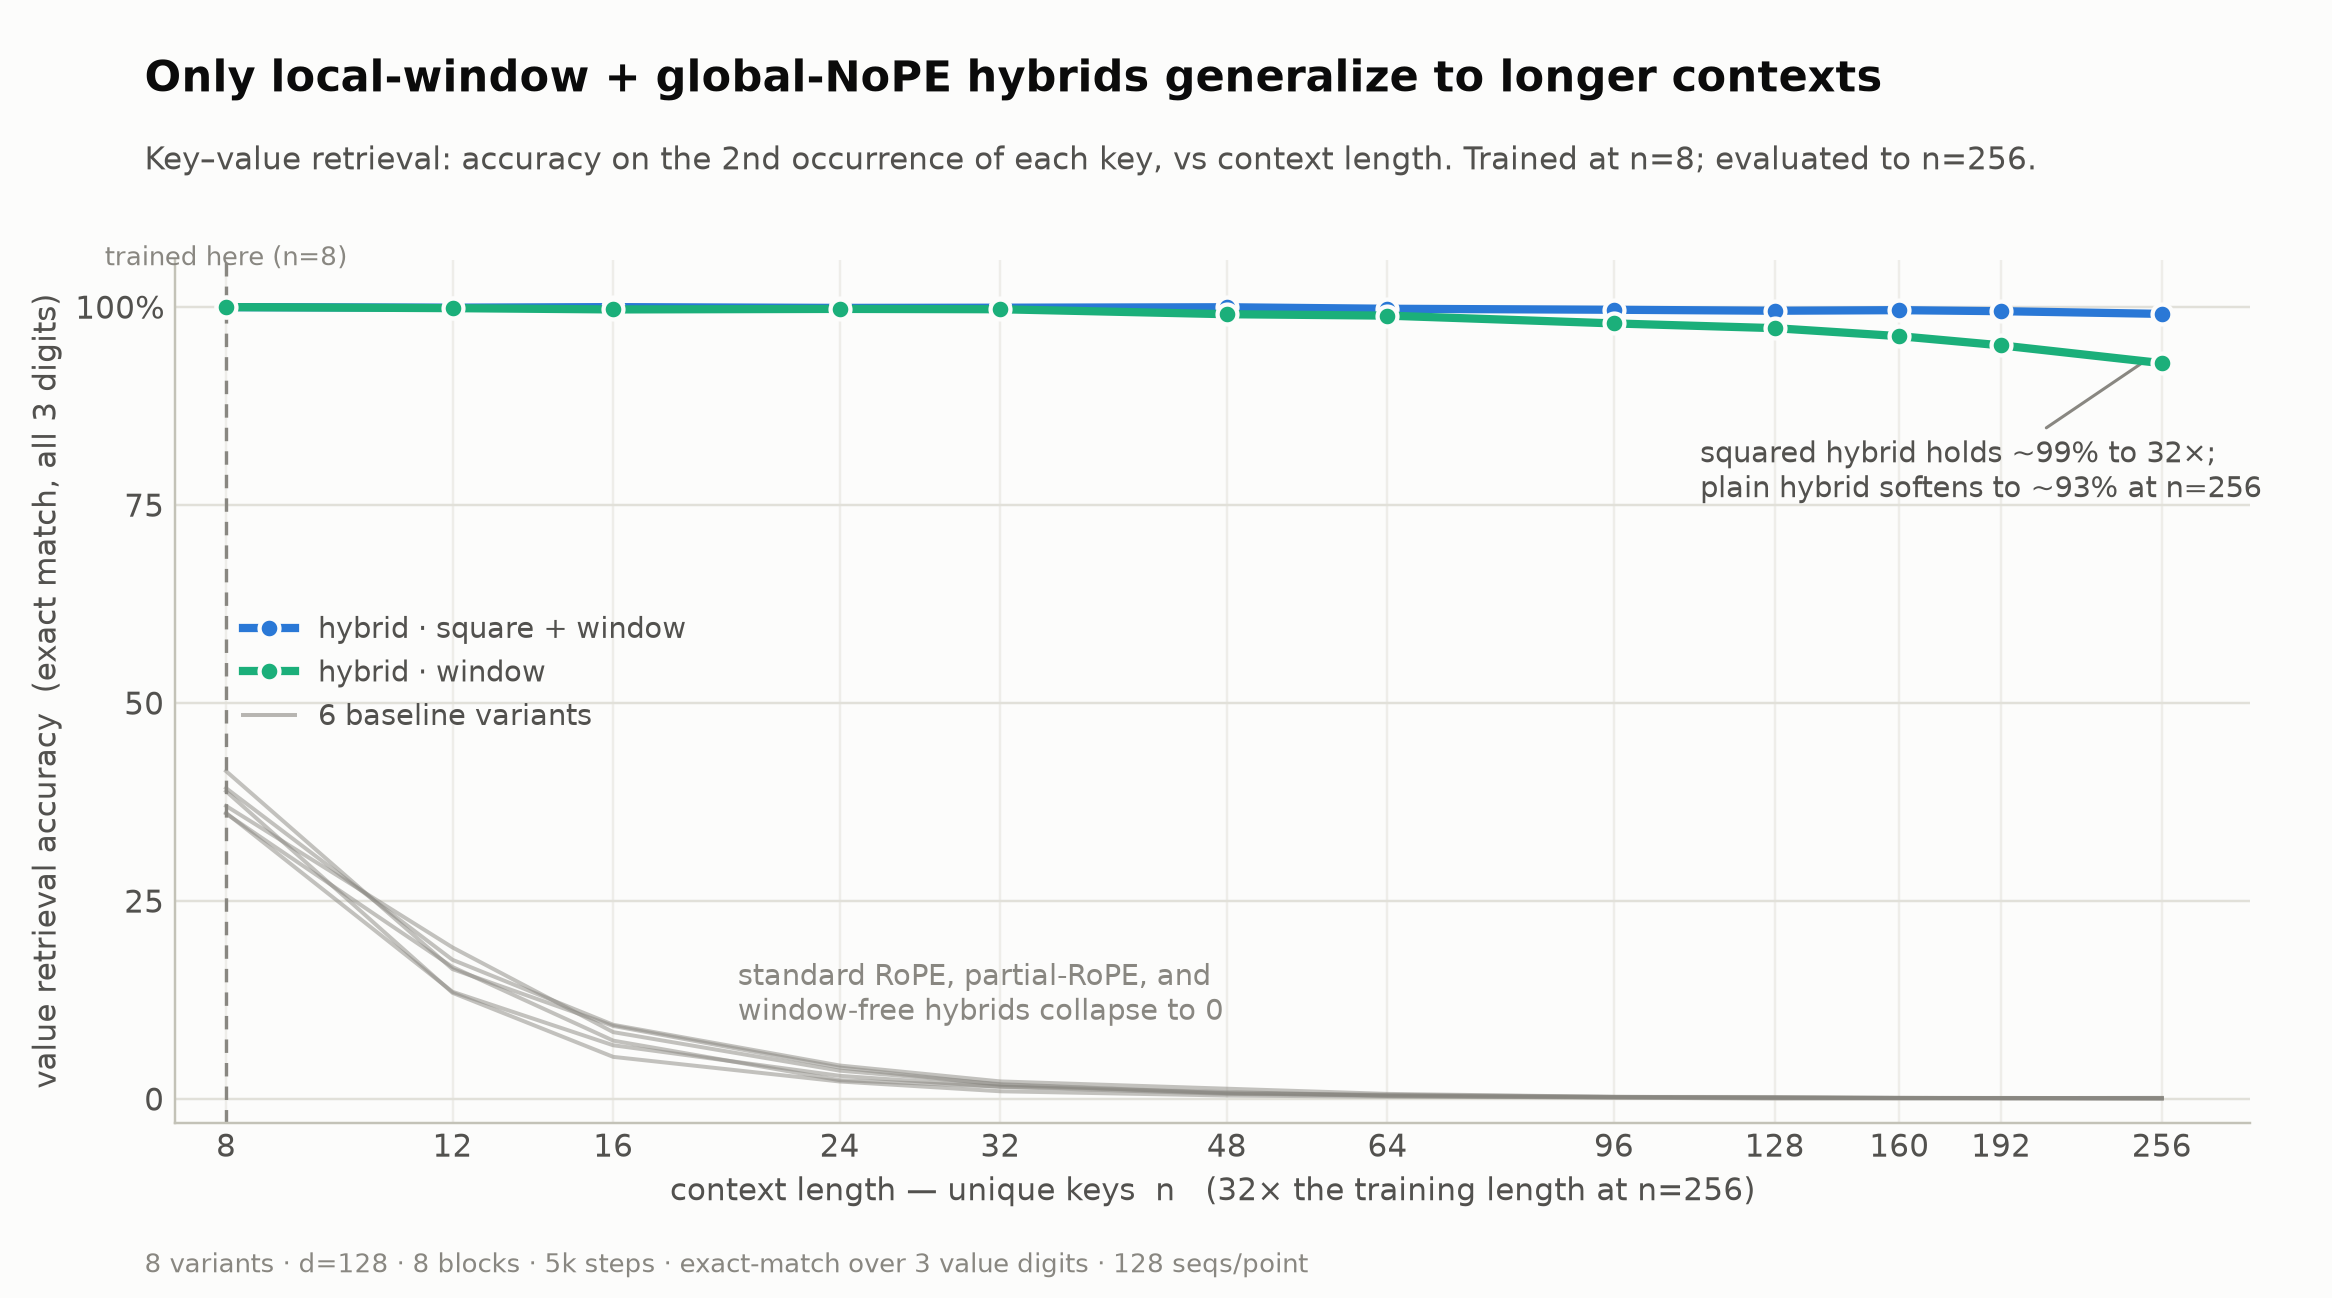
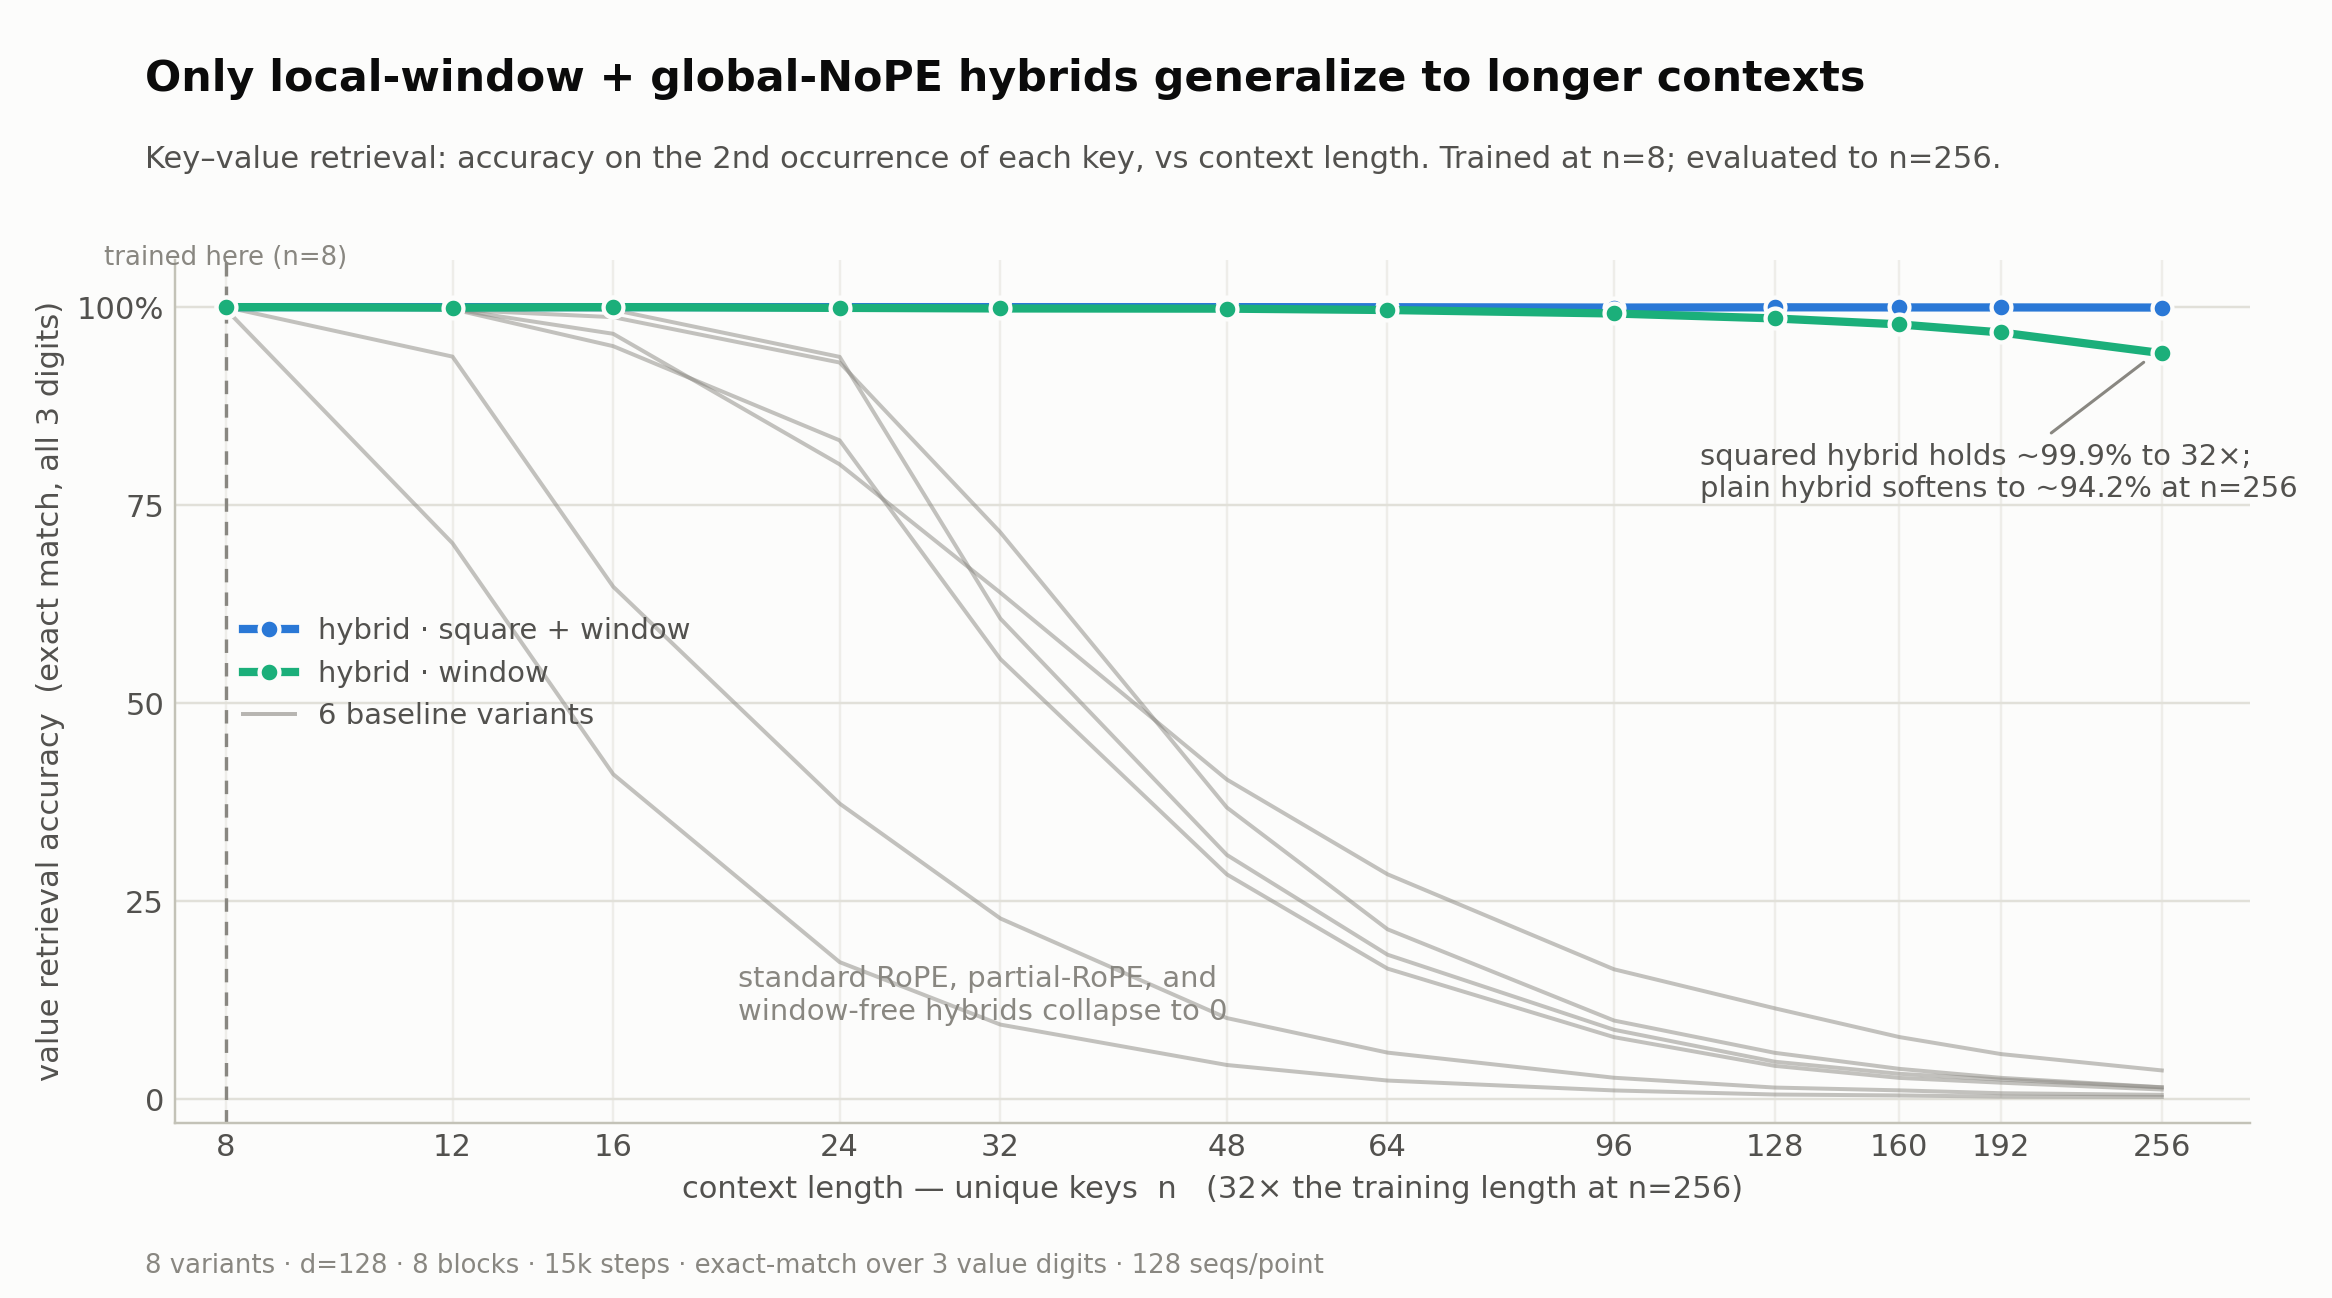
15k-step runs, hybrid seed fix, drop accum variant, data-driven figures
Experiment rerun on an RTX 4090 (torch.compile) with STEPS=15000:

- hybrid needs seed 1: with seed 0 it plateaus at ~78% retrieval on a
  partial positional shortcut; seed 1 converges to 100%. train.py gains
  --seed/--exclude so the README workflow is "seed 0 for all, seed 1 for
  hybrid". train.py also gains --resume/--start-step/--steps.
- drop hybrid_square_accum: it trains far slower than the other variants
  (0.85 at 15k steps; continuing to 30k steps did not help) and adds no
  generalization benefit over hybrid_square. Removed from VARIANTS, the
  attention forward, figures, README, and specs.
- plots.py: figure annotations are now computed from the cached
  accuracy-vs-context curves instead of hardcoded numbers; torch/model
  imports are lazy so re-rendering from the cache needs only matplotlib.
- regenerated figures: hybrid_square holds ~99.9% to 32x, hybrid (seed 1)
  softens to ~94% at n=256, baselines collapse to ~0.

diff --git a/kvbench/train.py b/kvbench/train.py
@@ -19,36 +19,52 @@ from .model import Model, VARIANTS
 
 
 def lr_at(step):
-    # flat LR with a short linear warmup
+    # short linear warmup, then cosine decay to ~0
     if step < C.WARMUP:
         return C.LR * step / C.WARMUP
-    return C.LR
+    frac = (step - C.WARMUP) / (C.STEPS - C.WARMUP)
+    return C.LR * 0.5 * (1.0 + math.cos(math.pi * frac))
 
 
-def train_variant(name, out_dir, use_compile):
+def n_keys_at(step):
+    # context-length curriculum (see config.CURRICULUM)
+    for until, nk in C.CURRICULUM:
+        if step <= until:
+            return nk
+    return C.N_TRAIN_KEYS
+
+
+def train_variant(name, out_dir, use_compile, seed=None, resume=None, start_step=0):
     os.makedirs(os.path.join(out_dir, "checkpoints"), exist_ok=True)
-    torch.manual_seed(C.SEED)
+    torch.manual_seed(C.SEED if seed is None else seed)
     model = Model(VARIANTS[name]).to(C.DEVICE)
+    if resume:
+        model.load_state_dict(torch.load(resume, map_location=C.DEVICE)["model_state"])
+        print(f"resumed weights from {resume} (starting at step {start_step})", flush=True)
     n_params = sum(p.numel() for p in model.parameters())
     fwd = torch.compile(model) if use_compile else model
     opt = torch.optim.AdamW(model.parameters(), lr=C.LR, betas=C.BETAS,
                             weight_decay=C.WEIGHT_DECAY, eps=C.EPS)
 
-    valp = value_positions(C.TRAIN_ENTRIES)
+    valp_by_ne = {2 * nk: value_positions(2 * nk)
+                  for nk in {n for _, n in C.CURRICULUM} | {C.N_TRAIN_KEYS}}
     metrics_path = os.path.join(out_dir, "metrics.jsonl")
-    open(metrics_path, "w").close()
+    if not resume:
+        open(metrics_path, "w").close()
     evals, t0 = {}, time.time()
 
-    for step in range(1, C.STEPS + 1):
+    for step in range(start_step + 1, C.STEPS + 1):
         for g in opt.param_groups:
             g["lr"] = lr_at(step)
-        seq = gen_batch(C.BATCH, C.TRAIN_ENTRIES)
+        ne = 2 * n_keys_at(step)
+        valp = valp_by_ne[ne]
+        seq = gen_batch(C.BATCH, ne)
         logits = fwd(seq[:, :-1])
         tgt = seq[:, 1:]
         ce = F.cross_entropy(logits.reshape(-1, C.VOCAB).float(), tgt.reshape(-1),
                              reduction="none").view(C.BATCH, -1)
-        sec = second_occurrence_flags(seq, C.TRAIN_ENTRIES)
-        ce_val = ce[:, valp].view(C.BATCH, C.TRAIN_ENTRIES, C.VLEN)
+        sec = second_occurrence_flags(seq, ne)
+        ce_val = ce[:, valp].view(C.BATCH, ne, C.VLEN)
         loss = ce_val[sec].mean()                       # 2nd-occurrence values only
         opt.zero_grad(set_to_none=True)
         loss.backward()
@@ -56,13 +72,13 @@ def train_variant(name, out_dir, use_compile):
 
         if step % C.LOG_EVERY == 0 or step == 1:
             with torch.no_grad():
-                pv = logits.argmax(-1)[:, valp].view(C.BATCH, C.TRAIN_ENTRIES, C.VLEN)
-                tv = tgt[:, valp].view(C.BATCH, C.TRAIN_ENTRIES, C.VLEN)
+                pv = logits.argmax(-1)[:, valp].view(C.BATCH, ne, C.VLEN)
+                tv = tgt[:, valp].view(C.BATCH, ne, C.VLEN)
                 acc = (pv[sec] == tv[sec]).float().mean().item()
-            rec = {"step": step, "loss": loss.item(), "retrieval_acc": acc}
+            rec = {"step": step, "n_keys": ne // 2, "loss": loss.item(), "retrieval_acc": acc}
             with open(metrics_path, "a") as f:
                 f.write(json.dumps(rec) + "\n")
-            print(f"[{name}] step {step:5d}  loss {loss.item():.4f}  "
+            print(f"[{name}] step {step:5d}  n_keys {ne // 2}  loss {loss.item():.4f}  "
                   f"retrieval_acc {acc:.4f}  ({time.time()-t0:.0f}s)", flush=True)
 
         if step % C.EVAL_EVERY == 0:
@@ -79,13 +95,23 @@ def main():
     ap = argparse.ArgumentParser()
     ap.add_argument("--compile", action="store_true")
     ap.add_argument("--only", default=None, help="comma-separated subset of variants")
+    ap.add_argument("--exclude", default=None, help="comma-separated variants to skip")
+    ap.add_argument("--seed", type=int, default=None, help="override config.SEED for this run")
+    ap.add_argument("--resume", default=None, help="checkpoint .pt to continue training from")
+    ap.add_argument("--start-step", type=int, default=0, help="step the resumed checkpoint was at")
+    ap.add_argument("--steps", type=int, default=None, help="override config.STEPS (total, not additional)")
     ap.add_argument("--runs-dir", default="runs")
     args = ap.parse_args()
+    if args.steps:
+        C.STEPS = args.steps
 
     names = args.only.split(",") if args.only else list(VARIANTS)
+    if args.exclude:
+        names = [n for n in names if n not in args.exclude.split(",")]
     for name in names:
-        print(f"=== training {name} ===", flush=True)
-        n = train_variant(name, os.path.join(args.runs_dir, name), args.compile)
+        print(f"=== training {name} (seed {C.SEED if args.seed is None else args.seed}) ===", flush=True)
+        n = train_variant(name, os.path.join(args.runs_dir, name), args.compile, args.seed,
+                          args.resume, args.start_step)
         print(f"=== {name} done ({n} params) ===", flush=True)
 
 

diff --git a/kvbench/plots.py b/kvbench/plots.py
@@ -11,13 +11,10 @@ import os
 import matplotlib as mpl
 mpl.use("Agg")
 import matplotlib.pyplot as plt
-import torch
 from matplotlib.lines import Line2D
 from matplotlib.ticker import NullFormatter, NullLocator, ScalarFormatter
 
 from . import config as C
-from .evaluate import accuracy_vs_context
-from .model import Model, VARIANTS
 
 # palette
 SURF, INK, INK2, MUTED = "#fcfcfb", "#0b0b0b", "#52514e", "#898781"
@@ -50,6 +47,8 @@ def _titles(fig, main, sub, foot):
 
 
 def _load(runs_dir, name):
+    import torch
+    from .model import Model, VARIANTS
     ck = torch.load(os.path.join(runs_dir, name, "checkpoints", f"ckpt_step{C.STEPS}.pt"),
                     map_location=C.DEVICE)
     m = Model(VARIANTS[name]).to(C.DEVICE)
@@ -70,10 +69,15 @@ def accuracy_curves(runs_dir, recompute=False):
             print("using cached curves:", cache)
             return data["curves"]
     print("computing accuracy vs context (this is the slow part)...")
+    from .evaluate import accuracy_vs_context
     curves = {name: accuracy_vs_context(_load(runs_dir, name), N_SWEEP) for name in names}
     json.dump({"n_sweep": N_SWEEP, "curves": curves}, open(cache, "w"), indent=2)
     print("cached curves:", cache)
     return curves
+
+
+def _pct(x):
+    return f"{round(100 * x, 1):g}%"
 
 
 def fig_generalization(runs_dir, out_path, recompute=False):
@@ -101,7 +105,10 @@ def fig_generalization(runs_dir, out_path, recompute=False):
     ax.set_yticklabels(["0", "25", "50", "75", "100%"])
     ax.set_xlabel("context length — unique keys  n   (32× the training length at n=256)")
     ax.set_ylabel("value retrieval accuracy  (exact match, all 3 digits)")
-    ax.annotate("squared hybrid holds ~99% to 32×;\nplain hybrid softens to ~93% at n=256",
+    n_max = N_SWEEP[-1]
+    sq, pl = min(curves["hybrid_square"]), curves["hybrid"][-1]
+    ax.annotate(f"squared hybrid holds ~{_pct(sq)} to {n_max // C.N_TRAIN_KEYS}×;\n"
+                f"plain hybrid softens to ~{_pct(pl)} at n={n_max}",
                 xy=(250, 0.935), xytext=(112, 0.76),
                 fontsize=9.5, color=INK2, ha="left", arrowprops=dict(arrowstyle="-", color=MUTED, lw=1))
     ax.text(20, 0.10, "standard RoPE, partial-RoPE, and\nwindow-free hybrids collapse to 0",
@@ -114,7 +121,7 @@ def fig_generalization(runs_dir, out_path, recompute=False):
     _titles(fig, "Only local-window + global-NoPE hybrids generalize to longer contexts",
             "Key–value retrieval: accuracy on the 2nd occurrence of each key, vs context length. "
             "Trained at n=8; evaluated to n=256.",
-            "8 variants · d=128 · 8 blocks · 5k steps · exact-match over 3 value digits · 128 seqs/point")
+            "8 variants · d=128 · 8 blocks · 15k steps · exact-match over 3 value digits · 128 seqs/point")
     fig.savefig(out_path, dpi=220)
     plt.close(fig)
     print("saved", out_path)

diff --git a/kvbench/config.py b/kvbench/config.py
@@ -29,9 +29,13 @@ ROPE_THETA = 10000.0
 
 # ---- training ----
 BATCH = 64
-STEPS = 5000
+STEPS = 15000
 WARMUP = 500
-LR = 3e-4
+LR = 3e-4                       # cosine-decayed to ~0 after warmup
+# context-length curriculum: (until_step, n_keys) stages, then N_TRAIN_KEYS.
+# Starting at n=2 keys lets the content-match circuit form before any positional
+# shortcut exists; without it, every full-attention RoPE variant plateaus ~37%.
+CURRICULUM = ((750, 2), (1500, 4), (2500, 6))
 BETAS = (0.9, 0.999)
 WEIGHT_DECAY = 0.1
 EPS = 1e-8

diff --git a/README.md b/README.md
@@ -63,8 +63,8 @@ than what is encountered during training.
 ## The result
 
 **Only the hybrid variants with a sliding window generalize.** The best,
-`hybrid_square`, holds ~99% exact-match retrieval all the way out to n=256 (32× the
-training length); the plain `hybrid` decays slowly, from ~100% to ~93% over the same
+`hybrid_square`, holds ~99.9% exact-match retrieval all the way out to n=256 (32× the
+training length); the plain `hybrid` decays slowly, from ~100% to ~94% over the same
 range. Every other variant — plain RoPE, partial RoPE, and the window-free hybrids —
 collapses to ~0 as the context grows. The sliding window is essential:
 `hybrid_nowindow` is no better than plain RoPE. The mechanism is what you'd expect:
@@ -80,16 +80,26 @@ positions.
 ## Running it
 
 ```bash
-# train all 8 variants and render both figures
-python -m kvbench --compile
+# train the 8 variants: seed 0 everywhere, except the plain hybrid which
+# needs seed 1 (with seed 0 it plateaus on a partial positional shortcut)
+python -m kvbench.train --compile --exclude hybrid
+python -m kvbench.train --compile --only hybrid --seed 1
 
-# or step by step
-python -m kvbench.train --compile          # writes runs/<variant>/{metrics.jsonl,eval.json,checkpoints}
-python -m kvbench.plots                     # writes figures/*.png
+# render both figures (recomputes the accuracy-vs-context eval)
+python -m kvbench.plots --recompute        # writes figures/*.png
 ```
 
+Each run writes `runs/<variant>/{metrics.jsonl,eval.json,checkpoints}`.
 Requires `torch` and `matplotlib`, a CUDA GPU (set `DEVICE` in `kvbench/config.py`
-otherwise). All 8 variants take ~1 hour on a single consumer GPU.
+otherwise). ~7 min per variant (15k steps) on a single consumer GPU.
+
+Training uses a short context-length curriculum (n = 2 → 4 → 6 → 8 keys over the
+first 2500 steps) with cosine LR decay. This matters: trained at n = 8 from the
+start, every variant whose RoPE layers see full attention gets stuck on a
+positional-shortcut local optimum and plateaus at ~37% retrieval *in
+distribution*; started at n = 2, where no positional shortcut exists, the
+content-match circuit forms first and every variant reaches ≈100% at the
+training length. See `specs/training.md`.
 
 ## Layout
 

diff --git a/specs/training.md b/specs/training.md
@@ -8,10 +8,22 @@ First-occurrence values are unpredictable (nothing to retrieve yet) and all
 StartKey / key / StartValue positions are structural, so every gradient term is a
 solvable lookup.
 
-**Optimizer:** AdamW, lr `3e-4` (flat, 500-step linear warmup), betas `(0.9, 0.999)`,
-weight decay `0.1`, eps `1e-8`.
+**Optimizer:** AdamW, lr `3e-4` (500-step linear warmup, then cosine decay to ~0),
+betas `(0.9, 0.999)`, weight decay `0.1`, eps `1e-8`.
 
-**Batch size:** 64. **Steps:** 5000. **Seed:** 0 (every variant).
+**Batch size:** 64. **Steps:** 15000. **Seed:** 0 for every variant except
+`hybrid`, which uses seed 1 (with seed 0 the plain hybrid plateaus at ~78%
+retrieval on a partial positional shortcut; seed 1 reaches ≈100%).
+
+**Context-length curriculum:** `n = 2` keys until step 750, `n = 4` until 1500,
+`n = 6` until 2500, then `n = 8` for the rest. Without the curriculum, every
+variant whose RoPE layers see full attention (rope, partial_rope, the no-window
+hybrids) falls into a positional-shortcut local optimum and plateaus at ~37%
+exact-match retrieval *at the training length*; starting at `n = 2` — where no
+positional shortcut exists — lets the content-based match circuit form first, and
+all variants then reach ≈100% at `n = 8` (rope, the slowest, needs the full 15k
+steps: 99.9%). The windowed hybrids are unaffected — they learn the task with or
+without the curriculum.
 
 **Logging:** every 100 steps — loss and second-occurrence retrieval accuracy
 (per-digit). **Checkpoints + per-index eval:** every 1000 steps.

diff --git a/specs/architecture.md b/specs/architecture.md
@@ -20,6 +20,8 @@ Variants differ **only** in their attention layers:
   encoding: `1.0` (full RoPE), `0.5` (partial), `0.0` (NoPE, position-free).
 - **Sliding window** — local attention window `W`, or `None` for full attention.
 - **Squared scores** — `softmax(scores²)` instead of `softmax(scores)`.
+- **Accumulated scores** — `softmax(cumsum(scores²))` along the key axis: each
+  key's squared score also carries the squared scores of all keys before it.
 
 ## The eight variants
 
